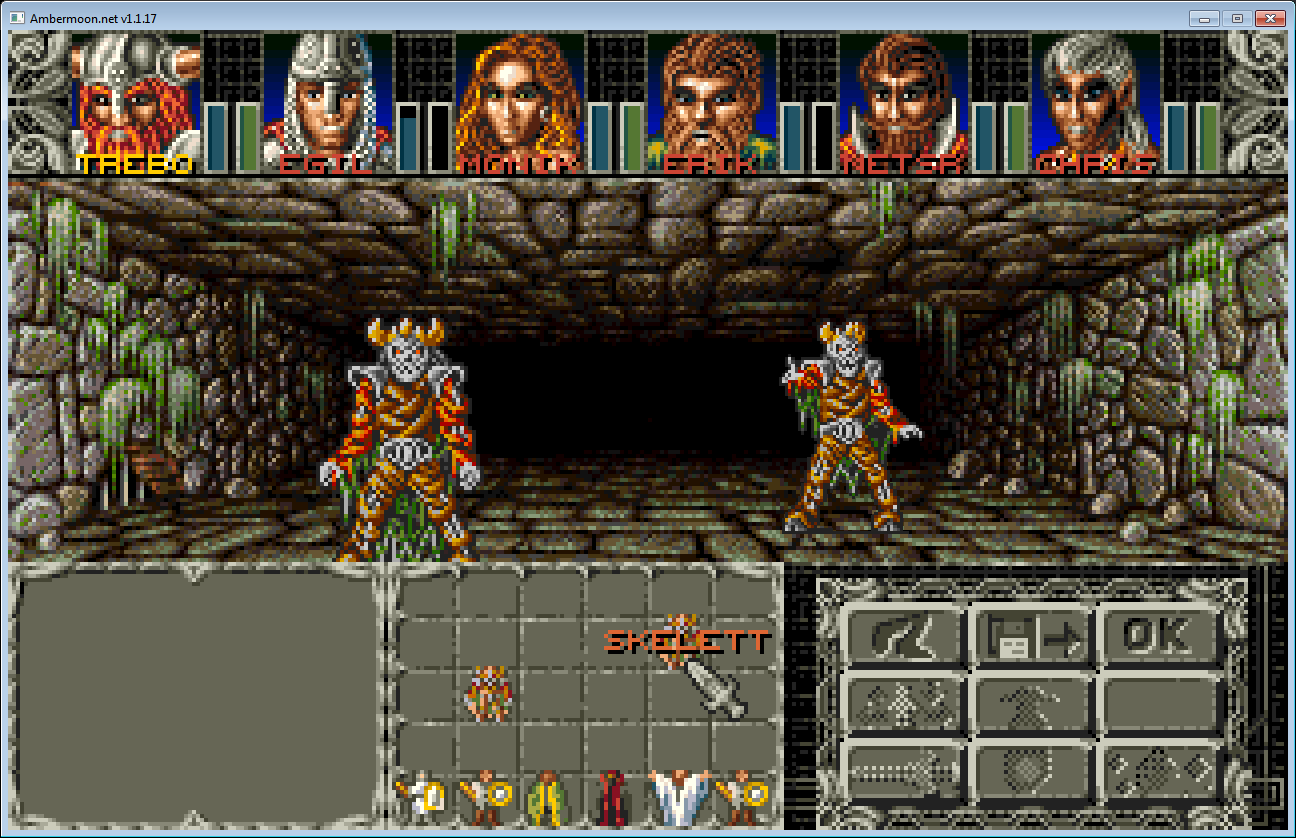
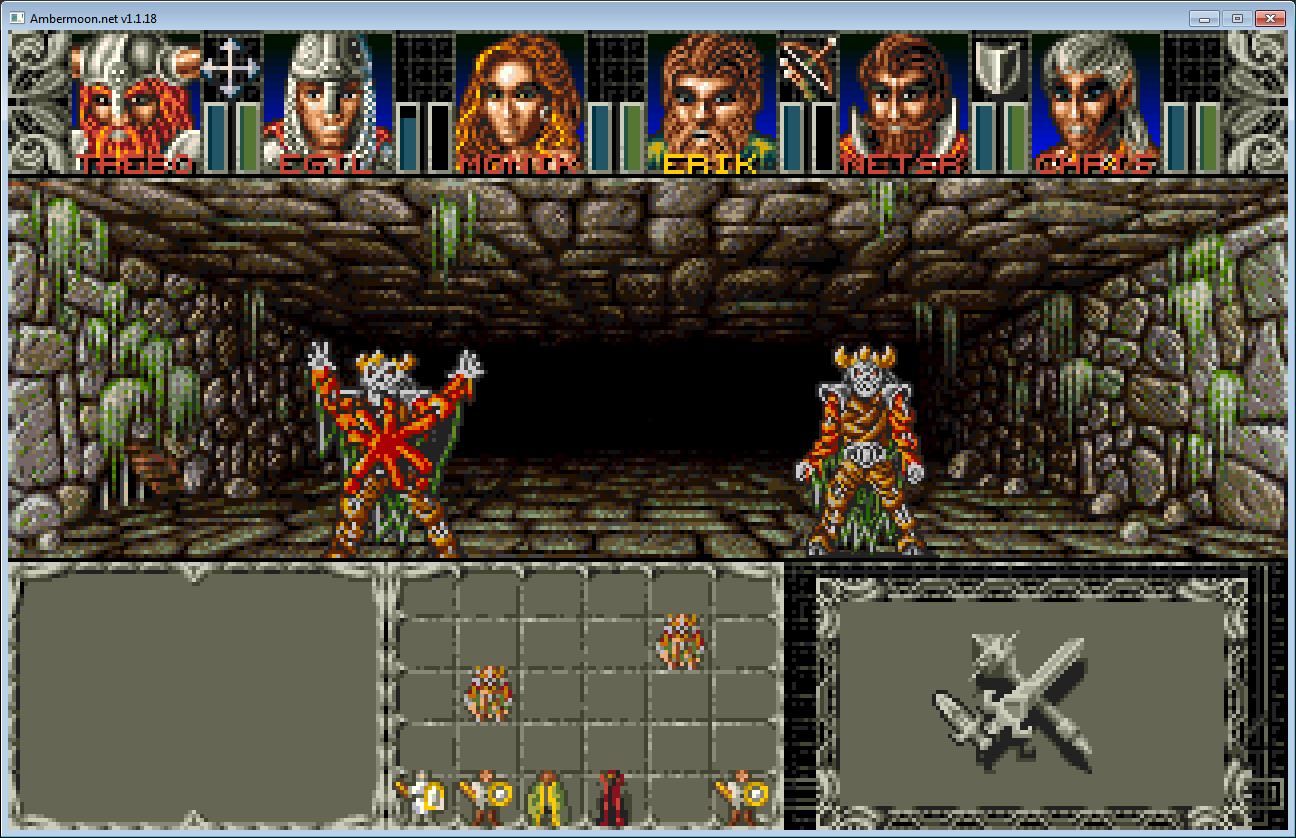
Fixed battle field slot color updates, updated battle screenshot

diff --git a/Ambermoon.Core/Game.cs b/Ambermoon.Core/Game.cs
@@ -2905,7 +2905,7 @@ namespace Ambermoon
                 {
                     case Battle.BattleActionType.Attack:
                     case Battle.BattleActionType.Move:
-                        layout.SetBattleFieldSlotColor((int)action.Parameter, BattleFieldSlotColor.Orange);
+                        layout.SetBattleFieldSlotColor((int)Battle.GetTargetTileFromParameter(action.Parameter), BattleFieldSlotColor.Orange);
                         break;
                     case Battle.BattleActionType.CastSpell:
                         var spell = (Spell)(action.Parameter >> 16);
